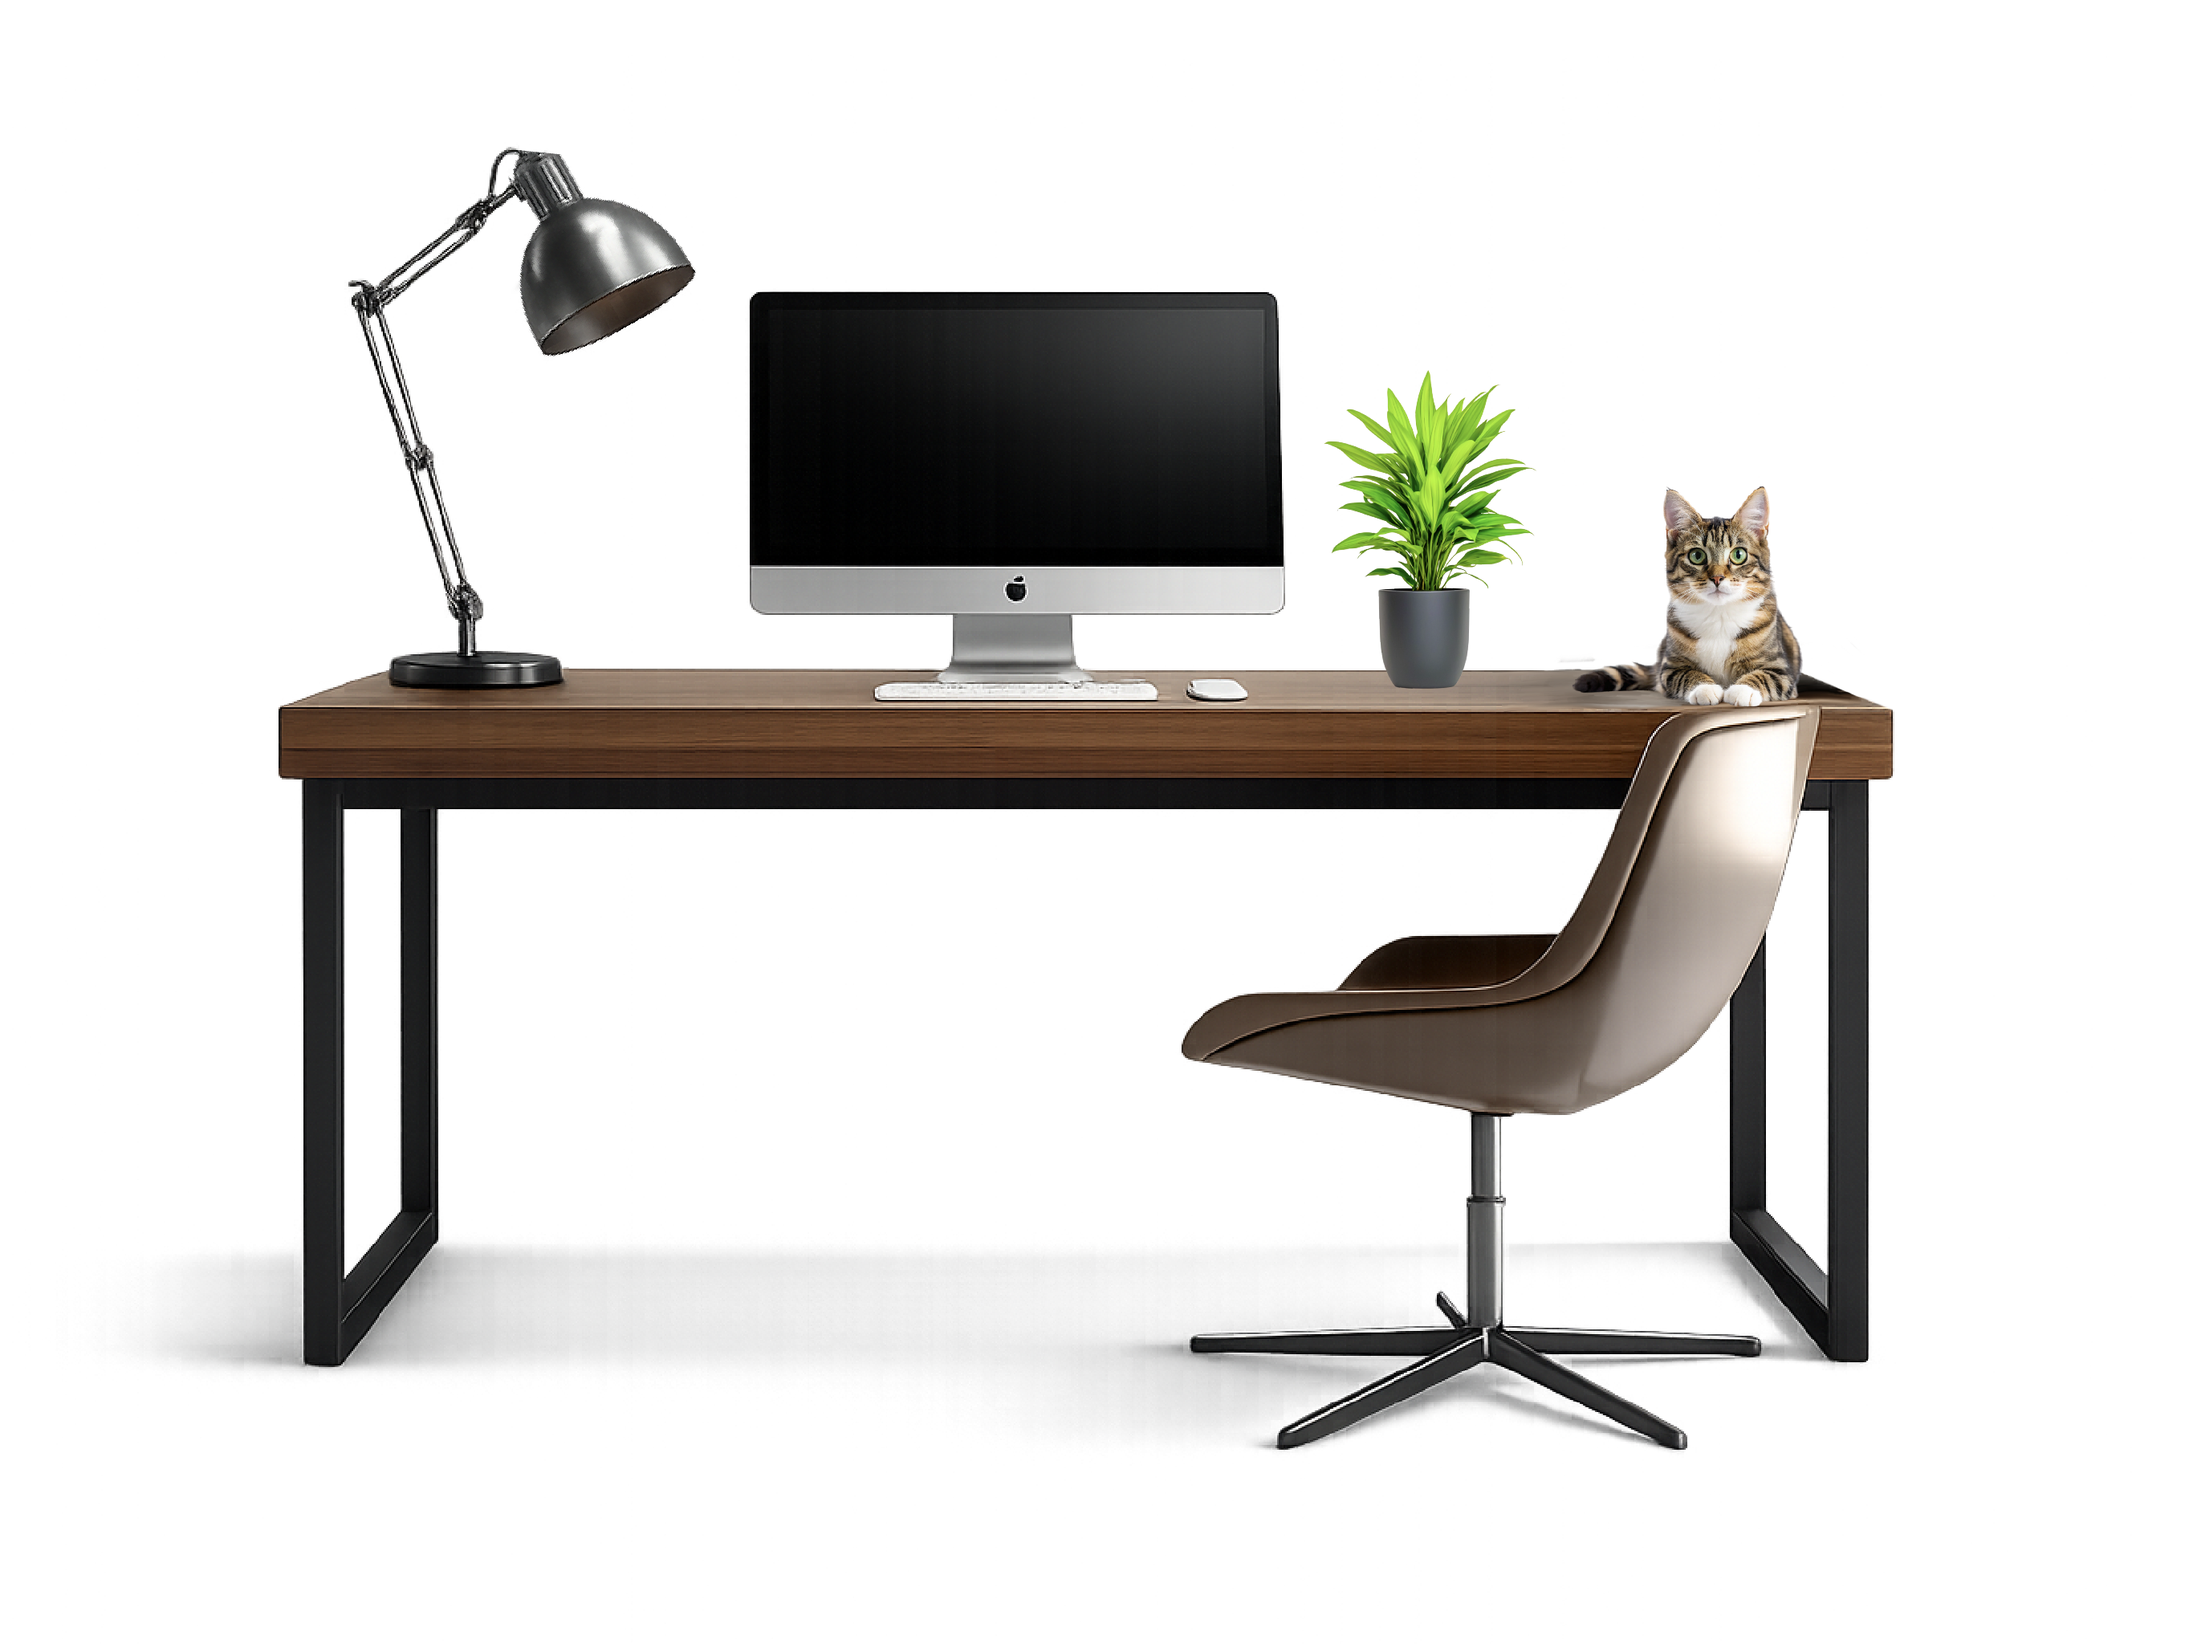
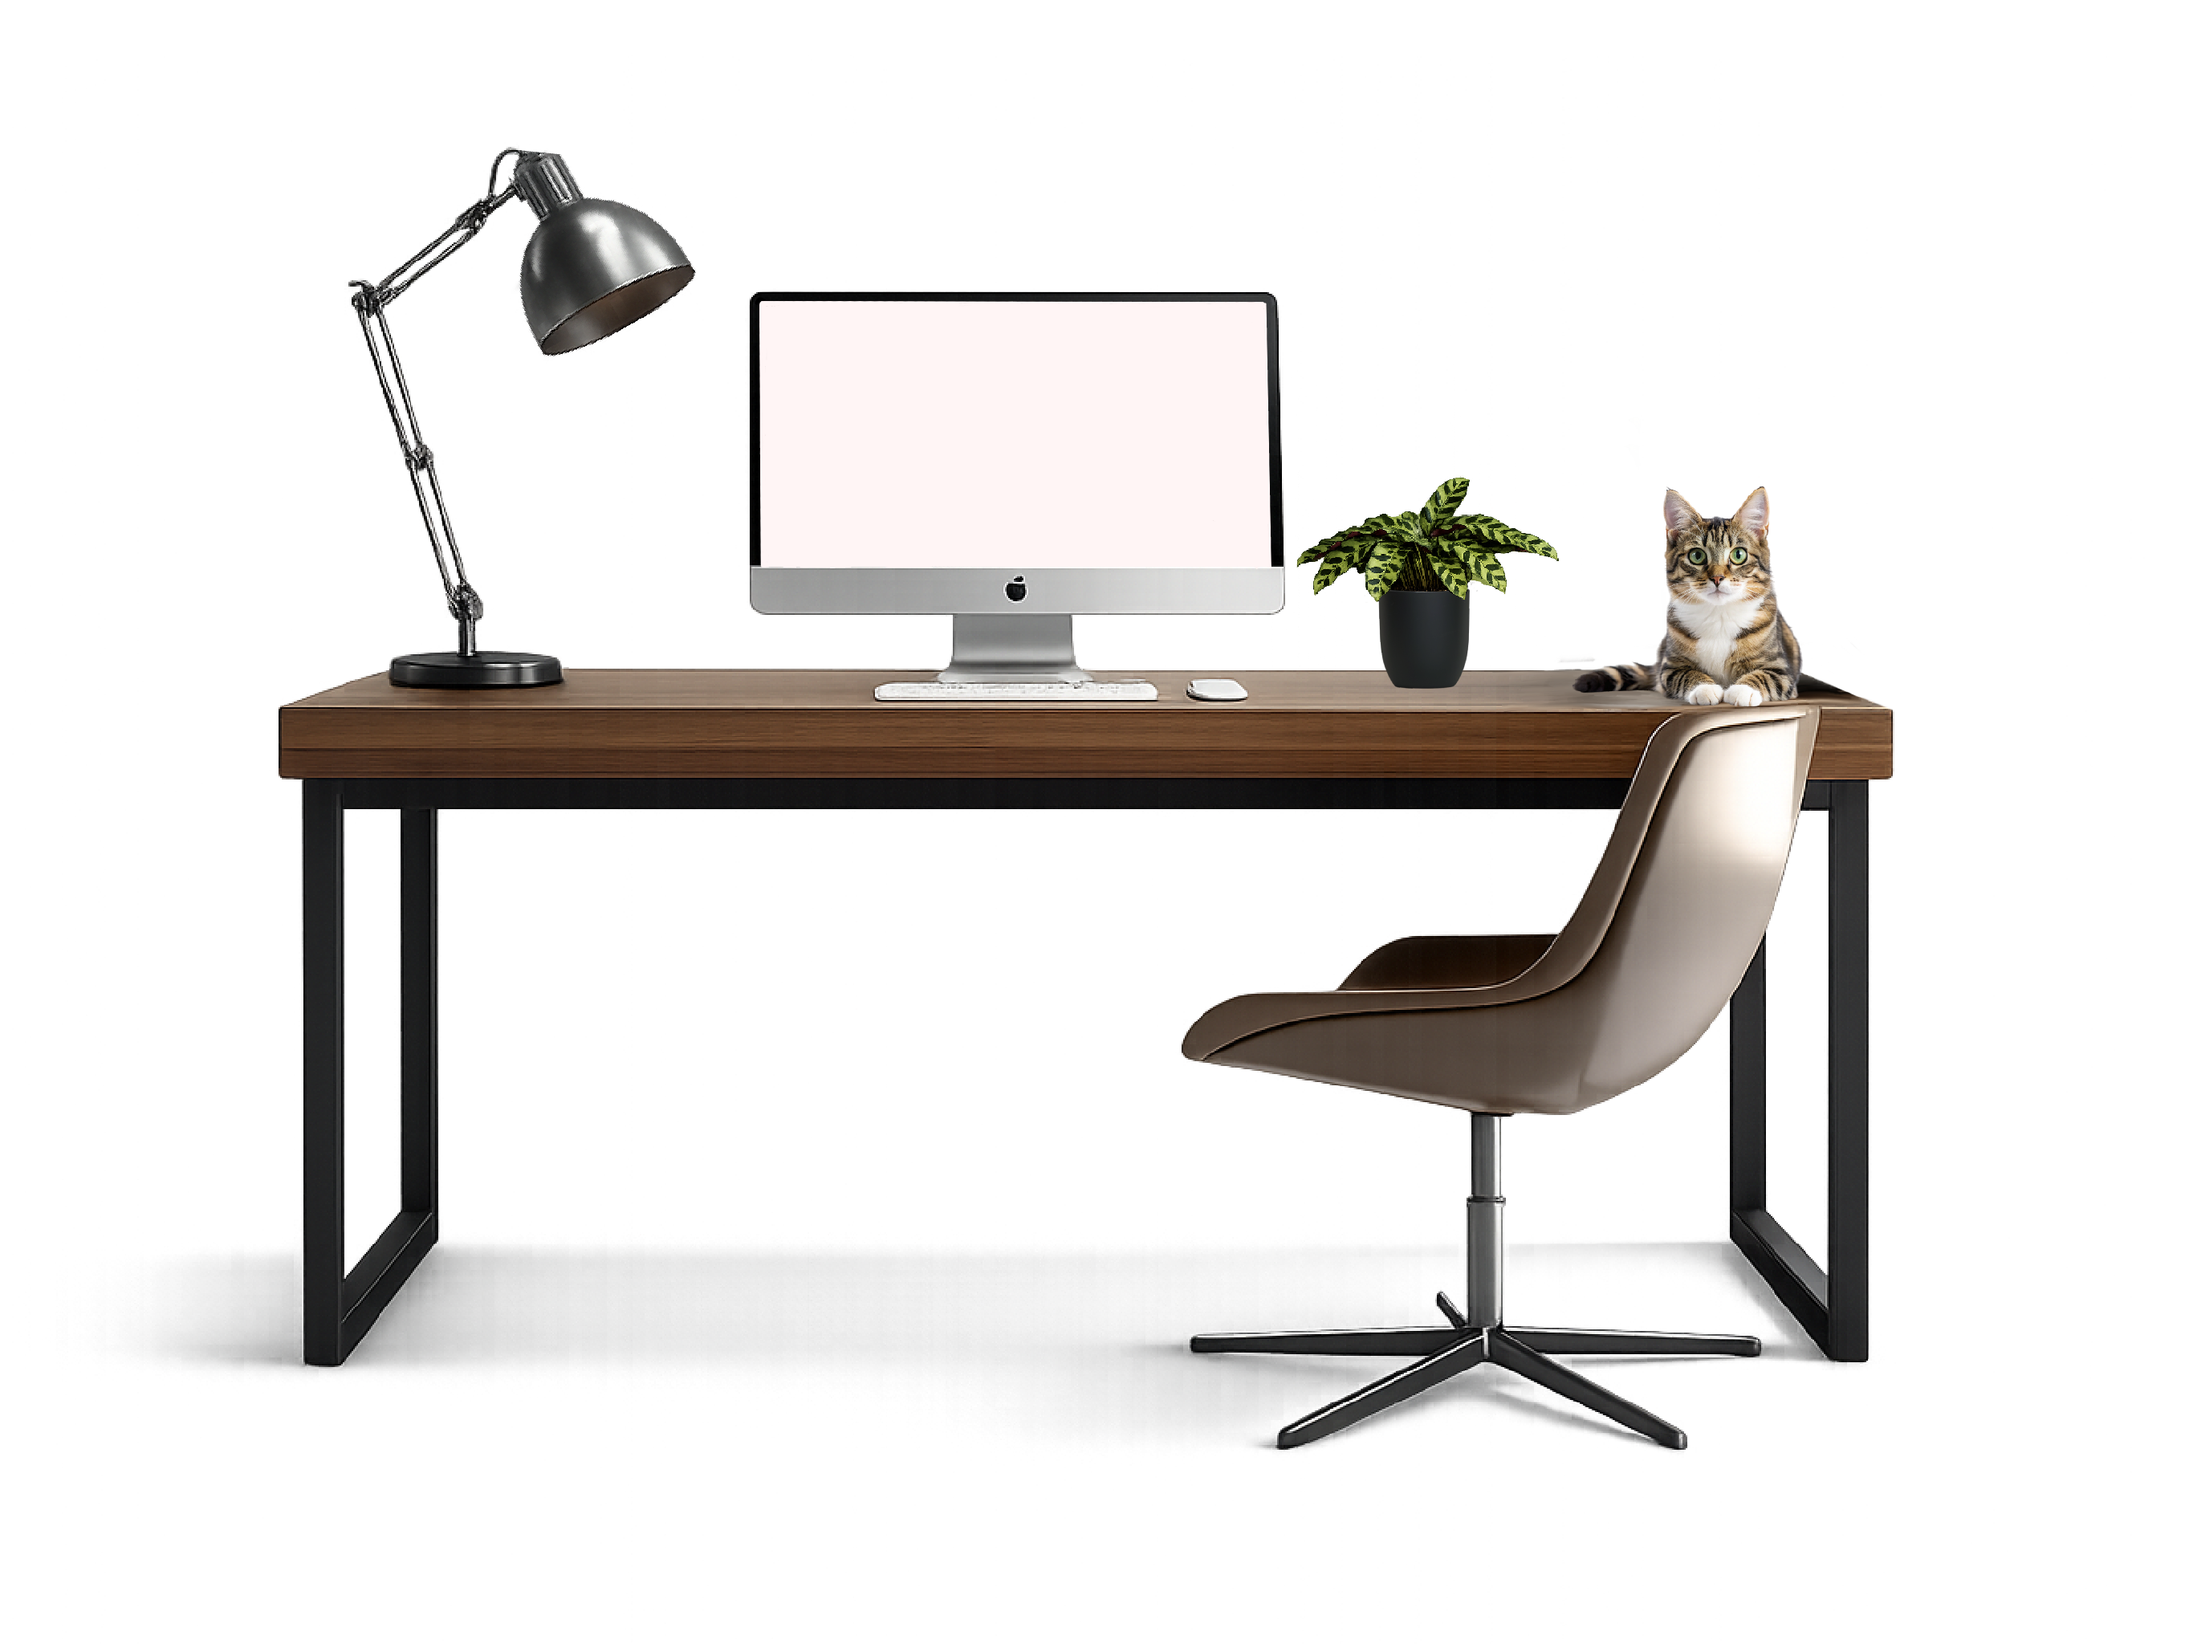
Dark mode and zzz

Changed region(s): [[0.3422, 0.1562, 0.7156, 0.4375]]

diff --git a/portfolio.js b/portfolio.js
@@ -6,11 +6,25 @@ const deskImage = document.querySelector(".desk-image");
 const IMAGE_WIDTH = 2732;
 const IMAGE_HEIGHT = 2048;
 const SCREEN_BOX = {
-  x: 930,
+  x: 950,
   y: 365,
   width: 670,
   height: 351
 };
+
+const lamp = document.getElementById("lamp");
+
+const LAMP_BOX = {
+  x: 630,
+  y: 250,
+  width: 230, 
+  height: 200
+};
+
+let isDark = false;
+
+const lightSrc = "pictures/lightModeOpen.png";
+const darkSrc = "pictures/nightMode2.png";
 
 function updateScreenHitbox() {
   const imgRect = deskImage.getBoundingClientRect();
@@ -29,7 +43,17 @@ function updateScreenHitbox() {
   screen.style.top = imgRect.top + offsetY + SCREEN_BOX.y * scale + "px";
   screen.style.width = SCREEN_BOX.width * scale + "px";
   screen.style.height = SCREEN_BOX.height * scale + "px";
+
+  lamp.style.left = imgRect.left + offsetX + LAMP_BOX.x * scale + "px";
+  lamp.style.top = imgRect.top + offsetY + LAMP_BOX.y * scale + "px ";
+  lamp.style.width = LAMP_BOX.width * scale + "px";
+  lamp.style.height = LAMP_BOX.height * scale + "px";
 }
+lamp.addEventListener("click", () => {
+  isDark = !isDark;
+  deskImage.src = isDark ? darkSrc : lightSrc;
+  document.body.classList.toggle("dark", isDark);
+});
 
 // Update on load and resize
 deskImage.addEventListener("load", updateScreenHitbox);
@@ -81,25 +105,24 @@ screen.addEventListener("click", () => {
   }, 1200);
 });
 
-function playHandwrite(word = "Bewerbung", durationMa = 2200) {
+function playHandwrite(word = "Bewerbung", durationMs = 2200) {
   const textEl = document.getElementById("handwriteText");
   if (!textEl) return;
 
   textEl.textContent = word;
 
   textEl.classList.remove("play");
-  void textEl.offsetWidth;
+  void textEl.offsetWidth; // restart animation
   textEl.classList.add("play");
 
   const start = performance.now();
 
   function tick(now) {
-    constt = Math.min(1, (now - start) / durationMs);
-
-    const rect = textEl.getBoundingClientRect();
-    const x = rect.left + rect.width * textEl;
-    consty = rect.top + rect.height * 0.75;
+    const t = Math.min(1, (now - start) / durationMs);
+    // if you later need t for something, use it here
+    if (t < 1) requestAnimationFrame(tick);
   }
+
   requestAnimationFrame(tick);
 }
 

diff --git a/portfolio.css b/portfolio.css
@@ -7,6 +7,10 @@ body {
   display: flex;
 }
 
+body.dark {
+  background: linear-gradient(to top, #111 25%, #1a1a1a 25%);
+}
+
 .text-bubble {
   position: absolute;
   width: clamp(400px, 40vw, 760px);
@@ -37,6 +41,14 @@ body {
   color: black;
 }
 
+#zzz-dark {display: none;}
+
+body.dark #bubbleLight {display: none;}
+body.dark .text-bubble p {display: none;}
+
+body.dark #zzz-dark{
+  display: block;
+}
 
 /* intro container */
 .intro {
@@ -89,7 +101,7 @@ body {
 
 .handwrite-text {
   font-size: clamp(18px, 3vw, 40px);
-  color: white;
+  color: black;
   font-family: 'Pacifico', cursive;
   text-shadow: 0 0 12px rgba(255,255,255,0.55);
   display: inline-block;
@@ -108,6 +120,10 @@ body {
   );
 }
 
+body.dark #handwriteText {
+  color: white;
+}
+
 .handwrite-text.play {
   animation: reveal 2.2s ease forwards;
 }
@@ -115,6 +131,13 @@ body {
 @keyframes reveal{
   from { width: 0ch; }
   to   { width: 9ch; } 
+}
+
+.lamp-hitbox {
+  position: fixed;
+  cursor: pointer;
+  z-index: 10;
+  border-radius: 50%;
 }
 
 /* portfolio */

diff --git a/portfolio.html b/portfolio.html
@@ -15,7 +15,8 @@
         <img class="desk-image" src="pictures/lightModeOpen.png" alt="">
   
       <div class="text-bubble">
-        <img class="bubble-pic" src="pictures/text-bubble.png" alt="">
+        <img class="bubble-pic" id="bubbleLight" src="pictures/text-bubble.png" alt="">
+        <img class="bubble-pic" id="zzz-dark" src="pictures/zzz.png" alt="">
         <p>Klicke auf den Bildschirm für die Bewerbung und auf die Lampe für Dark/Light Mode.</p>
       </div>
   
@@ -24,6 +25,9 @@
           <span class="handwrite-text" id="handwriteText">Bewerbung</span>
         </div>
       </div>
+
+      <div class="lamp-hitbox" id="lamp"></div>
+
       </div>
     </div>
   
